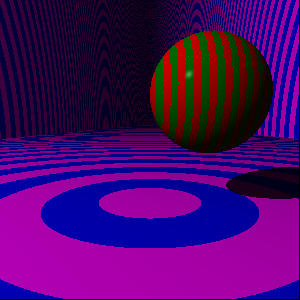
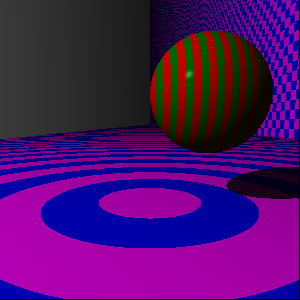
checker patten

Changed region(s): [[0.0, 0.0, 1.0, 0.48]]

diff --git a/tracer/pattern_test.go b/tracer/pattern_test.go
@@ -371,3 +371,93 @@ func TestRingPattern_colorAt(t *testing.T) {
 		})
 	}
 }
+
+func TestCheckerPattern_colorAt(t *testing.T) {
+	type args struct {
+		p Point
+	}
+	tests := []struct {
+		name    string
+		pattern *CheckerPattern
+		args    args
+		want    Color
+	}{
+		{
+			name:    "x1",
+			pattern: NewCheckerPattern(White(), Black()),
+			args: args{
+				p: NewPoint(0, 0, 0),
+			},
+			want: White(),
+		},
+		{
+			name:    "x2",
+			pattern: NewCheckerPattern(White(), Black()),
+			args: args{
+				p: NewPoint(0.99, 0, 0),
+			},
+			want: White(),
+		},
+		{
+			name:    "x3",
+			pattern: NewCheckerPattern(White(), Black()),
+			args: args{
+				p: NewPoint(1.01, 0, 0),
+			},
+			want: Black(),
+		},
+		{
+			name:    "y1",
+			pattern: NewCheckerPattern(White(), Black()),
+			args: args{
+				p: NewPoint(0, 0, 0),
+			},
+			want: White(),
+		},
+		{
+			name:    "y2",
+			pattern: NewCheckerPattern(White(), Black()),
+			args: args{
+				p: NewPoint(0, 0.99, 0),
+			},
+			want: White(),
+		},
+		{
+			name:    "y3",
+			pattern: NewCheckerPattern(White(), Black()),
+			args: args{
+				p: NewPoint(0, 1.01, 0),
+			},
+			want: Black(),
+		},
+		{
+			name:    "z1",
+			pattern: NewCheckerPattern(White(), Black()),
+			args: args{
+				p: NewPoint(0, 0, 0),
+			},
+			want: White(),
+		},
+		{
+			name:    "z2",
+			pattern: NewCheckerPattern(White(), Black()),
+			args: args{
+				p: NewPoint(0, 0, 0.99),
+			},
+			want: White(),
+		},
+		{
+			name:    "z3",
+			pattern: NewCheckerPattern(White(), Black()),
+			args: args{
+				p: NewPoint(0, 0, 1.01),
+			},
+			want: Black(),
+		},
+	}
+	for _, tt := range tests {
+		t.Run(tt.name, func(t *testing.T) {
+			assert.Equal(t, tt.want, tt.pattern.colorAt(tt.args.p))
+		})
+	}
+}

diff --git a/tracer/pattern.go b/tracer/pattern.go
@@ -98,13 +98,13 @@ func (gp *GradientPattern) colorAt(p Point) Color {
 	return gp.a.Add(d.Scale(f))
 }
 
-// RingPattern implements a gradient pattern
+// RingPattern implements a ring pattern
 type RingPattern struct {
 	basePattern
 	a, b Color
 }
 
-// NewRingPattern returns a new gradient pattern with the given colors
+// NewRingPattern returns a new ring pattern with the given colors
 func NewRingPattern(c1, c2 Color) *RingPattern {
 	return &RingPattern{
 		a: c1,
@@ -126,4 +126,34 @@ func (rp *RingPattern) colorAt(p Point) Color {
 		return rp.a
 	}
 	return rp.b
+}
+
+// CheckerPattern implements a checker pattern
+type CheckerPattern struct {
+	basePattern
+	a, b Color
+}
+
+// NewCheckerPattern returns a new checker pattern with the given colors
+func NewCheckerPattern(c1, c2 Color) *CheckerPattern {
+	return &CheckerPattern{
+		a: c1,
+		b: c2,
+		basePattern: basePattern{
+			transform: IdentityMatrix(),
+		},
+	}
+}
+
+// ColorAtObject returns the color for the given pattern on the given object
+func (cp *CheckerPattern) ColorAtObject(o Shaper, p Point) Color {
+	return cp.colorAt(cp.objectSpacePoint(o, p))
+}
+
+// ColorAt implements Patterner
+func (cp *CheckerPattern) colorAt(p Point) Color {
+	if int(math.Floor(p.X())+math.Floor(p.Y())+math.Floor(p.Z()))%2 == 0 {
+		return cp.a
+	}
+	return cp.b
 }

diff --git a/main.go b/main.go
@@ -300,7 +300,7 @@ func scene() {
 	p := tracer.NewRingPattern(tracer.ColorName(colornames.Fuchsia), tracer.ColorName(colornames.Blue))
 	// p := tracer.NewGradientPattern(tracer.ColorName(colornames.Orange), tracer.ColorName(colornames.Yellow))
 	// p.SetTransform(tracer.IdentityMatrix().RotateX(math.Pi/2).Scale(30, 1, 1).Translate(-15, 0, 0))
-	material.SetPattern(p)
+	floor.Material().SetPattern(p)
 	w.AddObject(floor)
 
 	wallMaterial := tracer.NewDefaultMaterial()
@@ -317,9 +317,8 @@ func scene() {
 	rightWall := tracer.NewPlane()
 	rightWall.SetTransform(
 		tracer.IdentityMatrix().RotateZ(math.Pi/2).Translate(15, 0, 0))
-	rightWall.SetMaterial(wallMaterial)
-	pWall := tracer.NewRingPattern(tracer.ColorName(colornames.Fuchsia), tracer.ColorName(colornames.Blue))
-	wallMaterial.SetPattern(pWall)
+	pRightWall := tracer.NewCheckerPattern(tracer.ColorName(colornames.Fuchsia), tracer.ColorName(colornames.Blue))
+	rightWall.Material().SetPattern(pRightWall)
 	w.AddObject(rightWall)
 
 	// sphere
